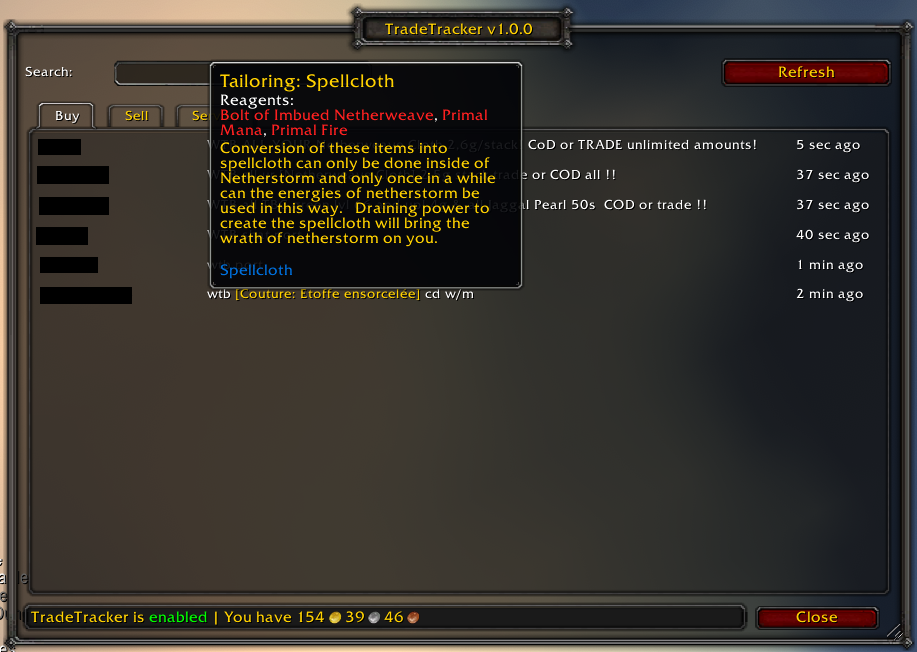
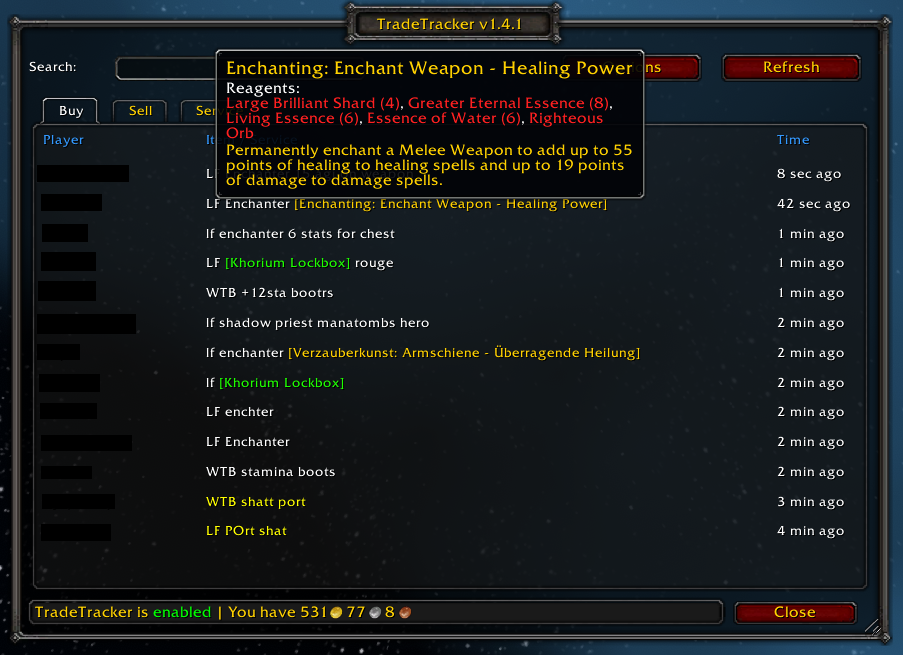
Update screenshots to reflect v1.4.1 changes

diff --git a/README.md b/README.md
@@ -37,3 +37,12 @@ _Searching for specific items will filter the results_
 
 ![Services tab](screenshots/TradeTracker-services1.png)
 _The services tab, showing what profession services people are offering_
+
+![Chat Options](screenshots/TradeTracker-options-chat.png)
+_Chat Settings allow you to customize what the addon should look for and in which channels_
+
+![Highlight Keywords](screenshots/TradeTracker-options-highlights.png)
+_Highlight Keywords allow you to pay extra attention to certain keywords in chat (e.g. people looking to buy portal services if you are a mage)_
+
+![Ignore Keywords](screenshots/TradeTracker-options-ignores.png)
+_Ignore Keywords allow you to filter out things you are not interested in (e.g. boosting services or guild recruitment messages)_
